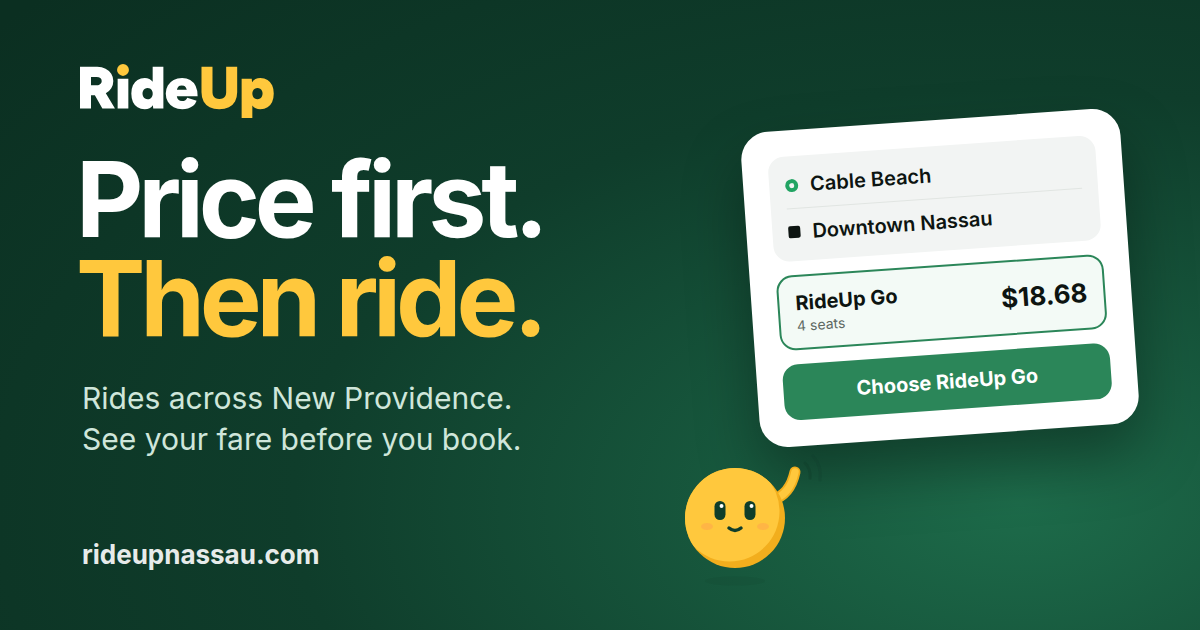
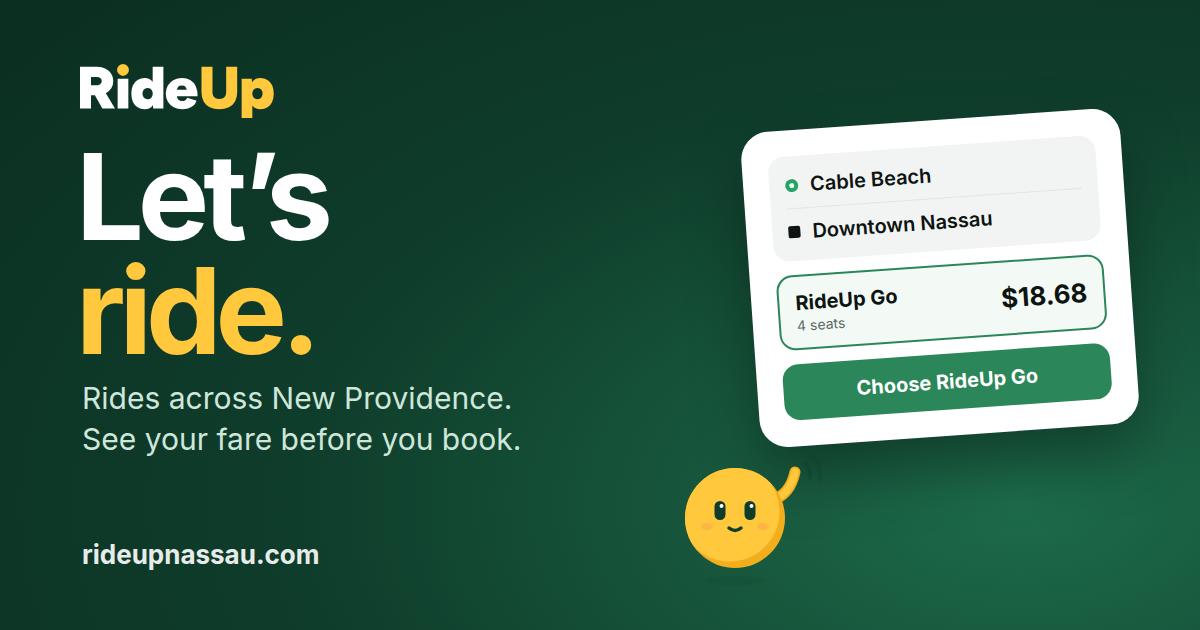
Link preview tagline: Let's ride.
Share image and og/twitter titles now say "Let's ride." (Facebook uses these as the ad headline).

Claude-Session: https://claude.ai/code/session_01SjQ7BSArEFuio9kPb5inFL

Changed region(s): [[0.0617, 0.2413, 0.4625, 0.573]]

diff --git a/index.html b/index.html
@@ -10,16 +10,16 @@
     <!-- Open Graph / Social Preview -->
     <meta property="og:type" content="website" />
     <meta property="og:site_name" content="RideUp Nassau" />
-    <meta property="og:title" content="RideUp Nassau — Price first. Then ride." />
+    <meta property="og:title" content="RideUp Nassau — Let’s ride." />
     <meta property="og:description" content="Rides across New Providence with your exact fare shown before you book. Pay by card, track your driver." />
     <meta property="og:url" content="https://www.rideupnassau.com/" />
     <meta property="og:image" content="https://www.rideupnassau.com/og-image.png" />
-    <meta property="og:image:alt" content="RideUp Nassau: Price first. Then ride." />
+    <meta property="og:image:alt" content="RideUp Nassau: Let’s ride." />
     <meta property="og:image:width" content="1200" />
     <meta property="og:image:height" content="630" />
     <meta name="twitter:card" content="summary_large_image" />
     <meta name="twitter:image" content="https://www.rideupnassau.com/og-image.png" />
-    <meta name="twitter:title" content="RideUp Nassau — Price first. Then ride." />
+    <meta name="twitter:title" content="RideUp Nassau — Let’s ride." />
     <meta name="twitter:description" content="Rides across New Providence with your exact fare shown before you book. Pay by card, track your driver." />
 
     <!-- Security -->
